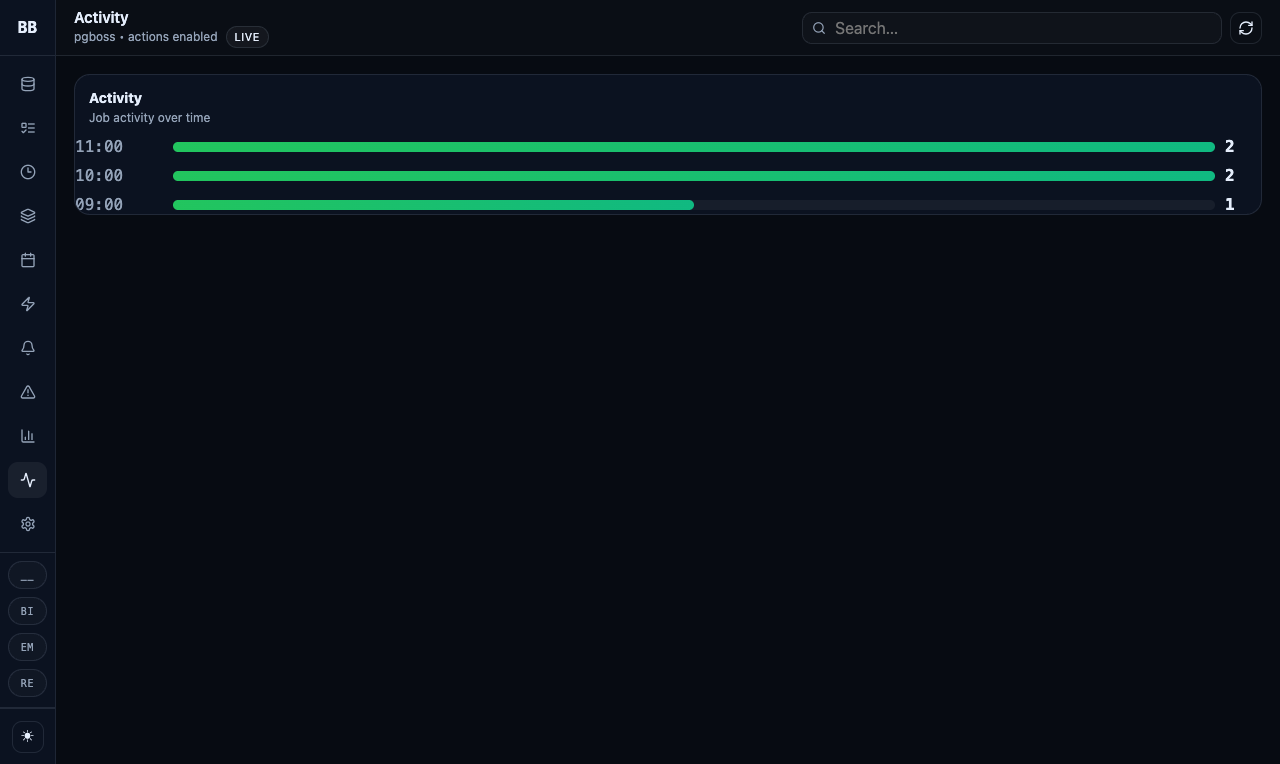
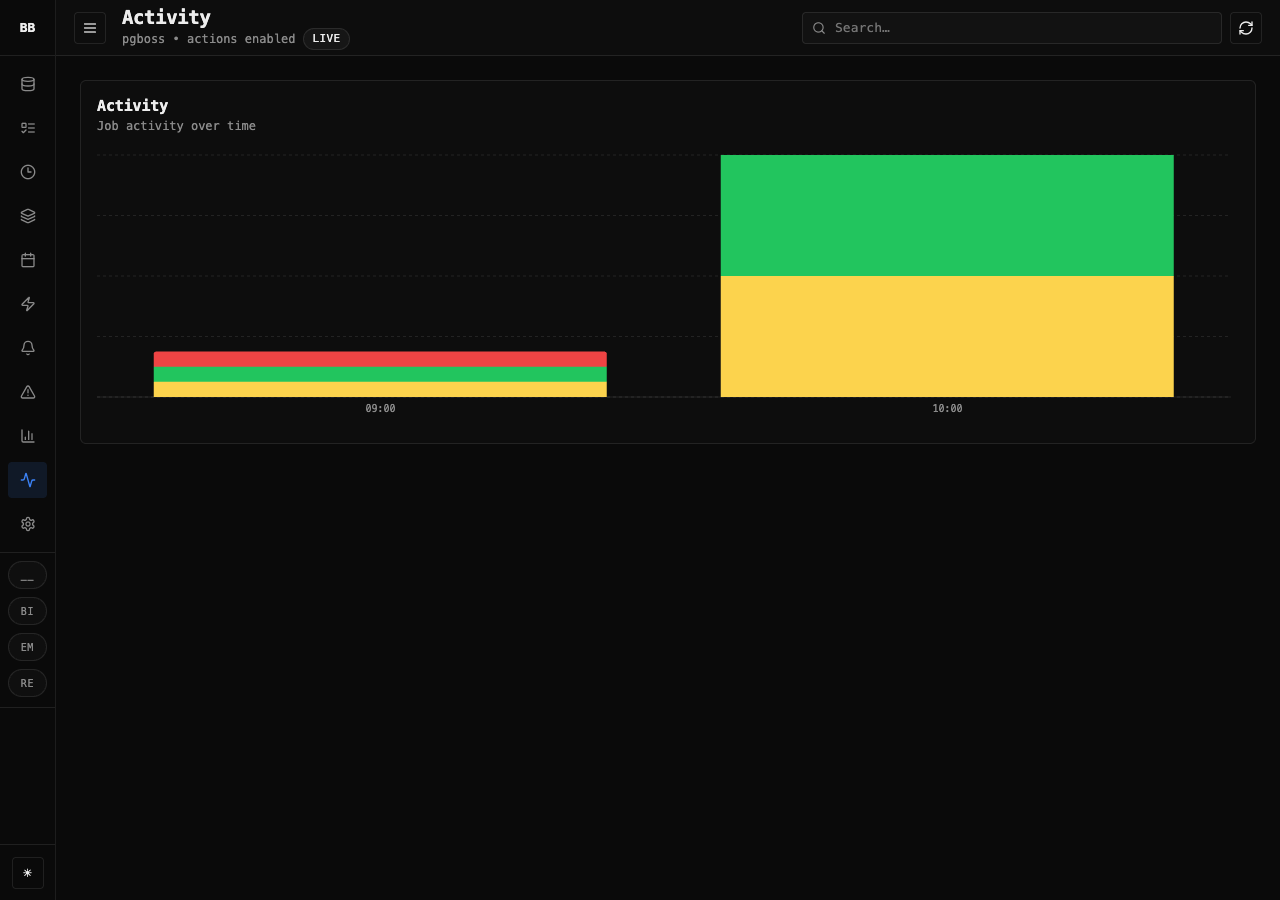
docs: regenerate README screenshots, add light mode
Refresh all dashboard screenshots against the current demo/UI, and add a
light-mode overview shot alongside the dark hero image.

Claude-Session: https://claude.ai/code/session_01HGE1iXsXWVGiFcShLDUBwn

diff --git a/README.md b/README.md
@@ -6,6 +6,8 @@ Bossbench is inspired by Workbench's embedded dashboard model, but is pg-boss-na
 
 ![Bossbench overview](docs/screenshots/overview.png)
 
+![Bossbench overview, light mode](docs/screenshots/overview-light.png)
+
 ## Features
 
 - Workbench-style embedded dashboard UI.
